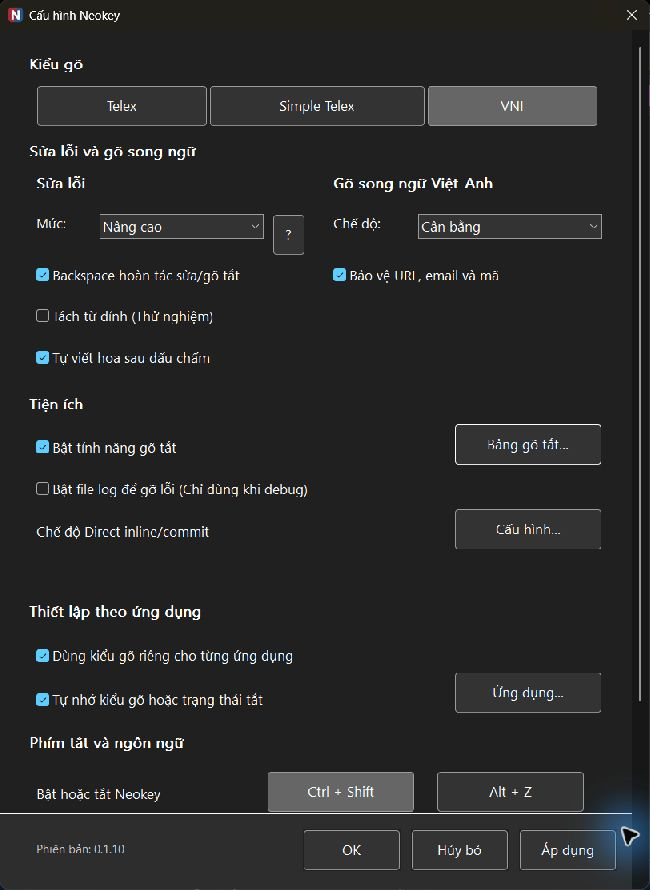
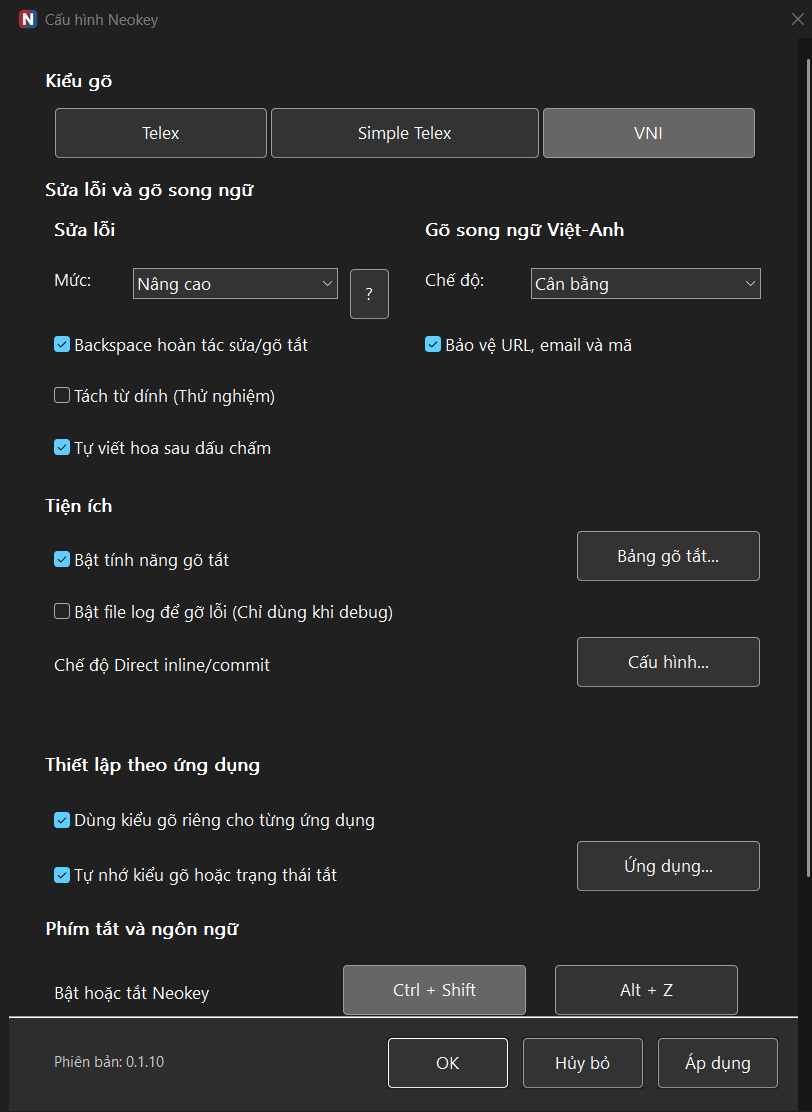
Sharpen README screenshots and archive UI concepts

diff --git a/design/reference-ui/README.md b/design/reference-ui/README.md
@@ -1,0 +1,13 @@
+# Neokey UI reference concepts
+
+Thư mục này lưu các mockup giao diện để tham khảo cho những lần thiết kế sau.
+Chúng **không phải giao diện hiện đang được phát hành** và không được dùng làm
+ảnh chụp sản phẩm trong README chính.
+
+- `neokey-config-concept.svg`: nguồn vector của concept cửa sổ cấu hình.
+- `neokey-config-concept.png`: bản xem trước PNG 2×.
+- `neokey-shorthand-concept.svg`: nguồn vector của concept bảng gõ tắt.
+- `neokey-shorthand-concept.png`: bản xem trước PNG 2×.
+
+Ảnh giao diện thật dùng trong README nằm tại `assets/neokey-config.png` và
+`assets/neokey-shorthand.png`.
